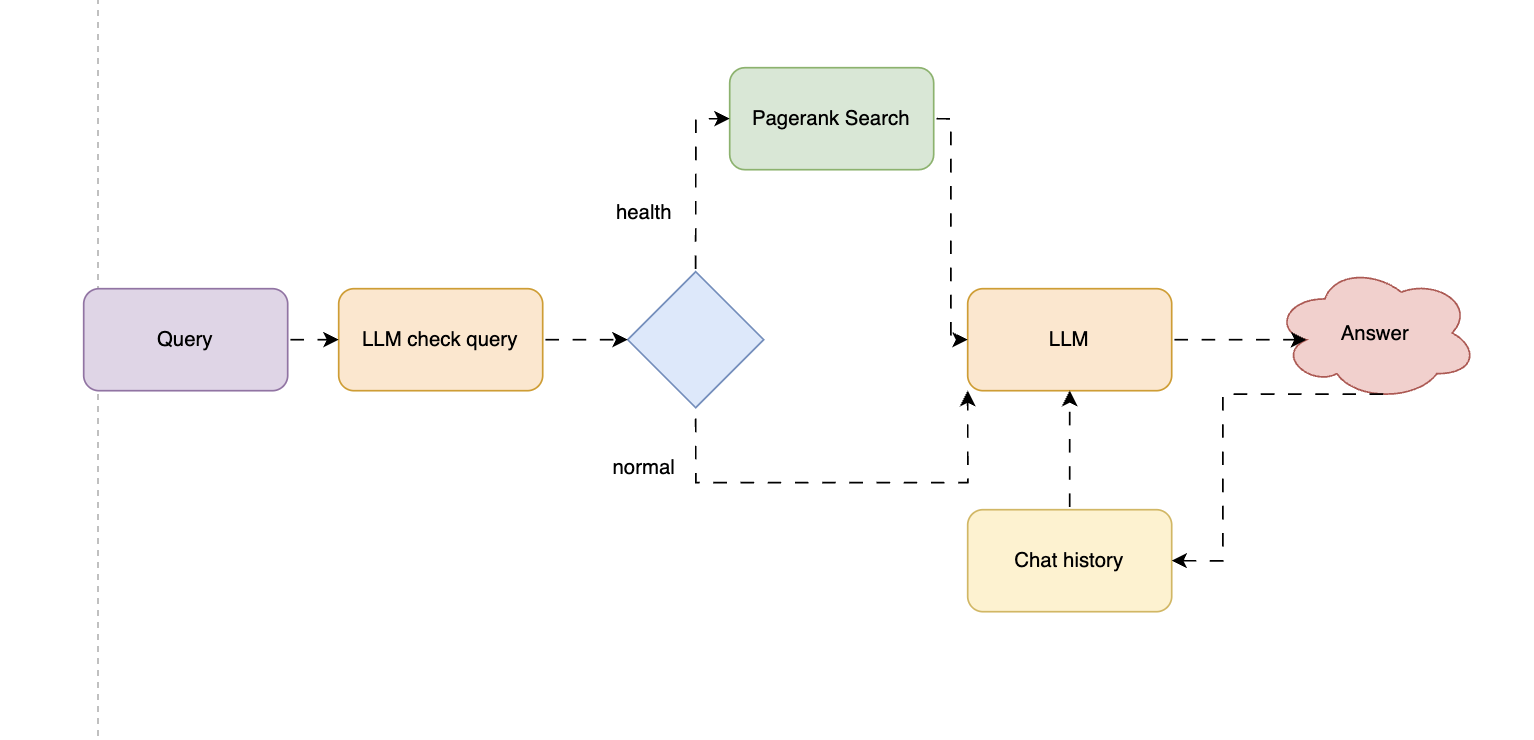
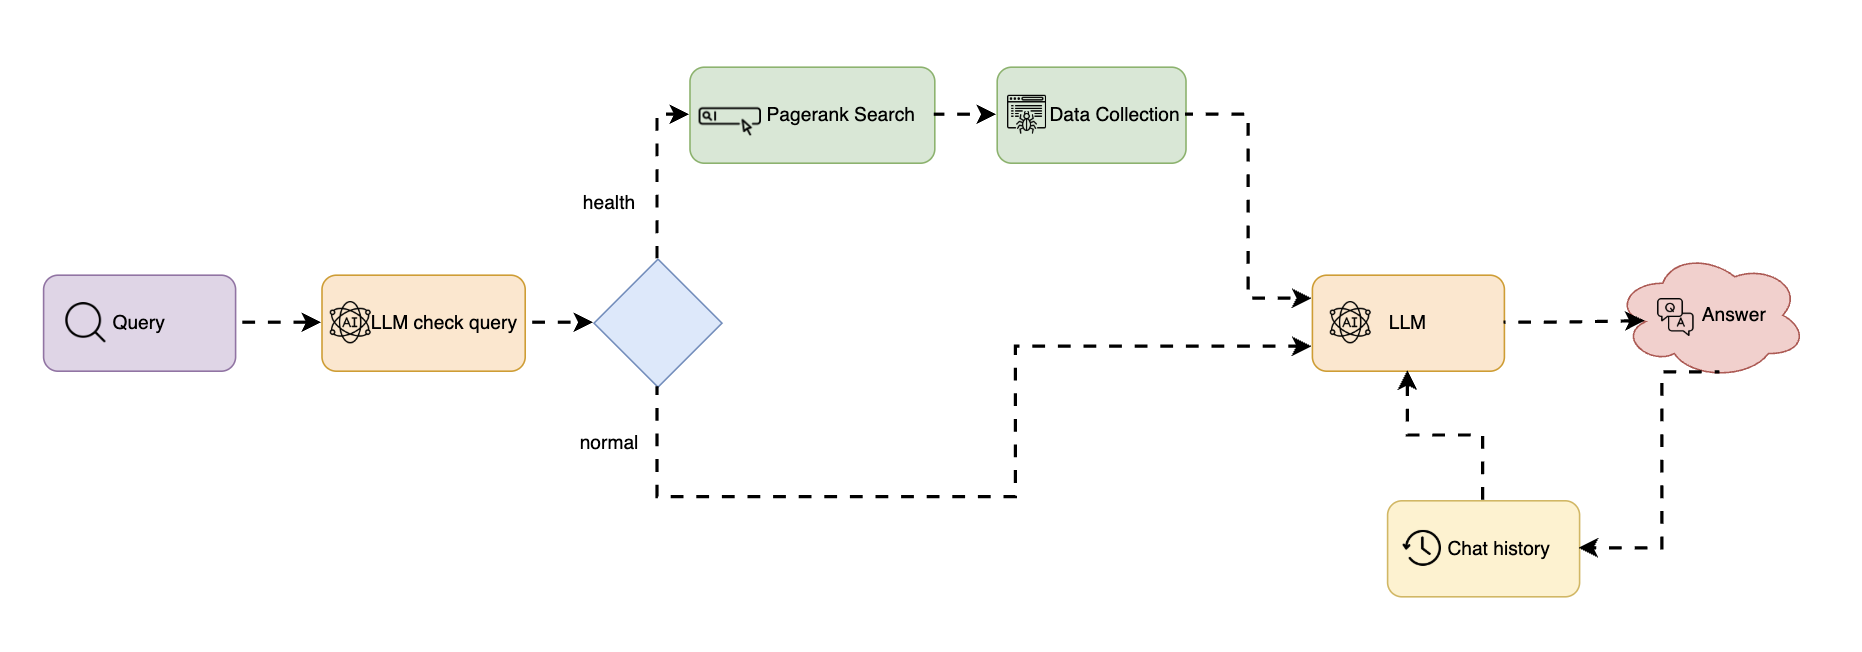
update optimize time response

diff --git a/frontend/src/components/ChatBox.js b/frontend/src/components/ChatBox.js
@@ -1,5 +1,66 @@
+// import React, { useState } from 'react';
+// import axios from 'axios';
+// import MessageBubble from './MessageBubble';
+// import MessageInput from './MessageInput';
+// import LoadingSpinner from './LoadingSpinner';
+// import { FontAwesomeIcon } from '@fortawesome/react-fontawesome';
+// import { faHospital } from '@fortawesome/free-regular-svg-icons';
+// import './ChatBox.css';
+
+// const ChatBox = () => {
+//   const [messages, setMessages] = useState([]);
+//   const [isLoading, setIsLoading] = useState(false);
+//   const [showIntro, setShowIntro] = useState(true); // State để kiểm soát hiển thị intro
+
+//   const handleSendMessage = async (message) => {
+//     if (showIntro) setShowIntro(false); // Ẩn phần intro khi gửi tin nhắn đầu tiên
+
+//     const userMessage = { message, isUser: true, time: new Date().toLocaleTimeString() };
+//     setMessages((prevMessages) => [...prevMessages, userMessage]);
+
+//     setIsLoading(true);
+//     try {
+//       const response = await axios.post('http://localhost:8000/ask', { question: message });
+//       const aiMessage = { message: response.data.response, isUser: false, time: new Date().toLocaleTimeString() };
+//       setMessages((prevMessages) => [...prevMessages, aiMessage]);
+//     } catch (error) {
+//       const errorMessage = { message: `Error: ${error.message}`, isUser: false, time: new Date().toLocaleTimeString() };
+//       setMessages((prevMessages) => [...prevMessages, errorMessage]);
+//     } finally {
+//       setIsLoading(false);
+//     }
+//   };
+
+//   return (
+//     <div className="chat-box">
+//       {/* Chỉ hiển thị phần intro nếu showIntro === true */}
+//       {showIntro && (
+//         <div className="deepseek-intro">
+//           <div className="icon-container">
+//             <FontAwesomeIcon icon={faHospital} />
+//           </div>
+//           <div className="intro-text">
+//             <div className="greeting">Hi, I'm ChatHealth.</div>
+//             <div className="question">How can I help you today?</div>
+//           </div>
+//         </div>
+//       )}
+
+//       {/* Phần tin nhắn */}
+//       <div className="messages">
+//         {messages.map((msg, index) => (
+//           <MessageBubble key={index} message={msg.message} isUser={msg.isUser} time={msg.time} />
+//         ))}
+//         {isLoading && <LoadingSpinner />}
+//       </div>
+//       <MessageInput onSendMessage={handleSendMessage} />
+//     </div>
+//   );
+// };
+
+// export default ChatBox;
+
 import React, { useState } from 'react';
-import axios from 'axios';
 import MessageBubble from './MessageBubble';
 import MessageInput from './MessageInput';
 import LoadingSpinner from './LoadingSpinner';
@@ -10,30 +71,61 @@ import './ChatBox.css';
 const ChatBox = () => {
   const [messages, setMessages] = useState([]);
   const [isLoading, setIsLoading] = useState(false);
-  const [showIntro, setShowIntro] = useState(true); // State để kiểm soát hiển thị intro
+  const [showIntro, setShowIntro] = useState(true);
 
   const handleSendMessage = async (message) => {
-    if (showIntro) setShowIntro(false); // Ẩn phần intro khi gửi tin nhắn đầu tiên
-
+    if (showIntro) setShowIntro(false);
+  
     const userMessage = { message, isUser: true, time: new Date().toLocaleTimeString() };
     setMessages((prevMessages) => [...prevMessages, userMessage]);
-
+  
     setIsLoading(true);
     try {
-      const response = await axios.post('https://backend.ifobito.online/ask', { question: message });
-      const aiMessage = { message: response.data.response, isUser: false, time: new Date().toLocaleTimeString() };
-      setMessages((prevMessages) => [...prevMessages, aiMessage]);
+      const response = await fetch('https://backend.ifobito.online/ask', {
+        method: 'POST',
+        headers: { 'Content-Type': 'application/json' },
+        body: JSON.stringify({ question: message }),
+      });
+  
+      if (!response.ok) {
+        throw new Error(`Server error: ${response.statusText}`);
+      }
+  
+      // Stream response handling
+      const reader = response.body.getReader();
+      const decoder = new TextDecoder();
+      let botMessage = '';
+      setIsLoading(false);
+  
+      while (true) {
+        const { value, done } = await reader.read();
+        if (done) break;
+        
+        botMessage += decoder.decode(value, { stream: true });
+  
+        // Update the message gradually (simulate streaming effect)
+        setMessages((prevMessages) => {
+          const updatedMessages = [...prevMessages];
+          const lastMessage = updatedMessages[updatedMessages.length - 1];
+  
+          if (lastMessage && !lastMessage.isUser) {
+            updatedMessages[updatedMessages.length - 1].message = botMessage; // Update existing AI message
+          } else {
+            updatedMessages.push({ message: botMessage, isUser: false, time: new Date().toLocaleTimeString() });
+          }
+  
+          return updatedMessages;
+        });
+      }
     } catch (error) {
       const errorMessage = { message: `Error: ${error.message}`, isUser: false, time: new Date().toLocaleTimeString() };
       setMessages((prevMessages) => [...prevMessages, errorMessage]);
-    } finally {
       setIsLoading(false);
     }
   };
-
+  
   return (
     <div className="chat-box">
-      {/* Chỉ hiển thị phần intro nếu showIntro === true */}
       {showIntro && (
         <div className="deepseek-intro">
           <div className="icon-container">
@@ -46,7 +138,6 @@ const ChatBox = () => {
         </div>
       )}
 
-      {/* Phần tin nhắn */}
       <div className="messages">
         {messages.map((msg, index) => (
           <MessageBubble key={index} message={msg.message} isUser={msg.isUser} time={msg.time} />

diff --git a/backend/app.py b/backend/app.py
@@ -18,6 +18,9 @@ from fastapi import FastAPI, HTTPException, Request
 from pydantic import BaseModel
 import requests
 from fastapi.middleware.cors import CORSMiddleware
+from langchain_google_genai import ChatGoogleGenerativeAI
+from fastapi.responses import StreamingResponse
+
 
 load_dotenv()
 app = FastAPI()
@@ -30,11 +33,11 @@ app.add_middleware(
     allow_headers=["*"],
 )
 
-api_key = os.environ["OPENAI_API_KEY"]
-# groq_api_key = os.getenv('GROQ_API_KEY')
+groq_api_key = os.getenv('GROQ_API_KEY')
+api_key = os.getenv('GENAI_API_KEY')
 
-llm = ChatOpenAI(model="gpt-4o-mini", api_key=api_key,streaming=True)
-# llm = ChatGroq(model="llama-3.3-70b-versatile", api_key=groq_api_key, streaming=True)
+llm = ChatGoogleGenerativeAI(model="gemini-2.0-flash-lite-preview-02-05", api_key=api_key, streaming=True)
+llm_classifier = ChatGroq(model="llama-3.3-70b-versatile", api_key=groq_api_key, streaming=True)
 REDIS_URL = os.getenv("REDIS_URL")
 print(f"Connecting to Redis at: {REDIS_URL}")
 
@@ -135,7 +138,7 @@ chain_with_history = RunnableWithMessageHistory(
     chain, get_redis_history, input_messages_key="human_question", history_messages_key="history"
 )
 
-chain_query = prompt_query | llm
+chain_query = prompt_query | llm_classifier
 
 
 @app.get("/")
@@ -158,19 +161,15 @@ async def ask(request: QuestionRequest):
             is_health_question = verify_input.content.strip().lower() == "health"
 
             content = await get_content(user_input) if is_health_question else "Định dạng đầu ra bằng Markdown"
-
-            response = await chain_with_history.ainvoke(
+            
+            async for chunk in chain_with_history.astream(
                 {"content": content, "human_question": user_input},
                 config={"configurable": {"session_id": session_id}}
-            )
+            ):
+                yield f"{chunk.content}\n"
 
-            try:
-                async for chunk in response.stream():
-                    return {"response": chunk}
-            except AttributeError:
-                return {"response": response.content}
-
-        return await process_question()
+        return StreamingResponse(process_question(), media_type="text/plain")
 
     except Exception as e:
         raise HTTPException(status_code=500, detail=f"Exception occurred: {str(e)}")
+
